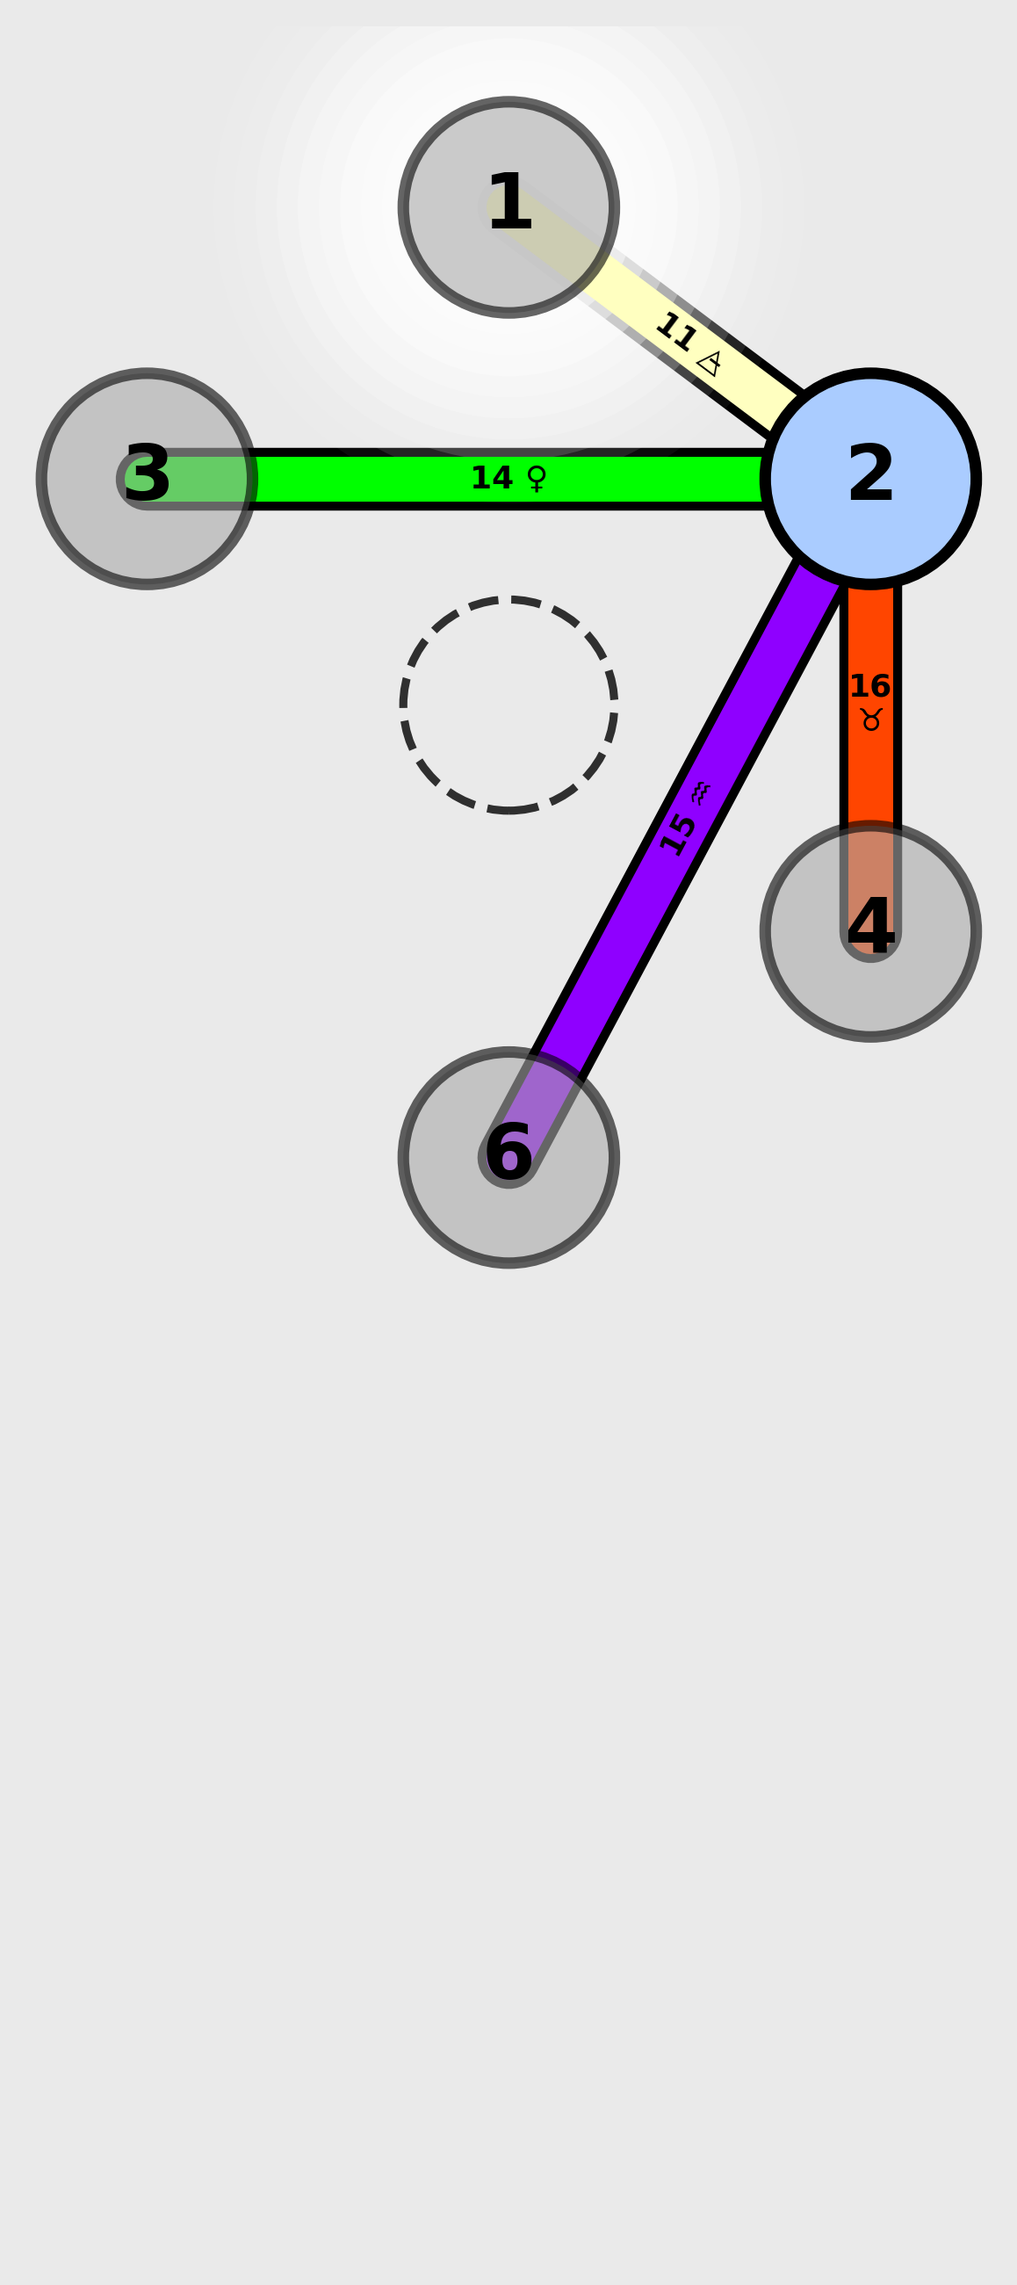
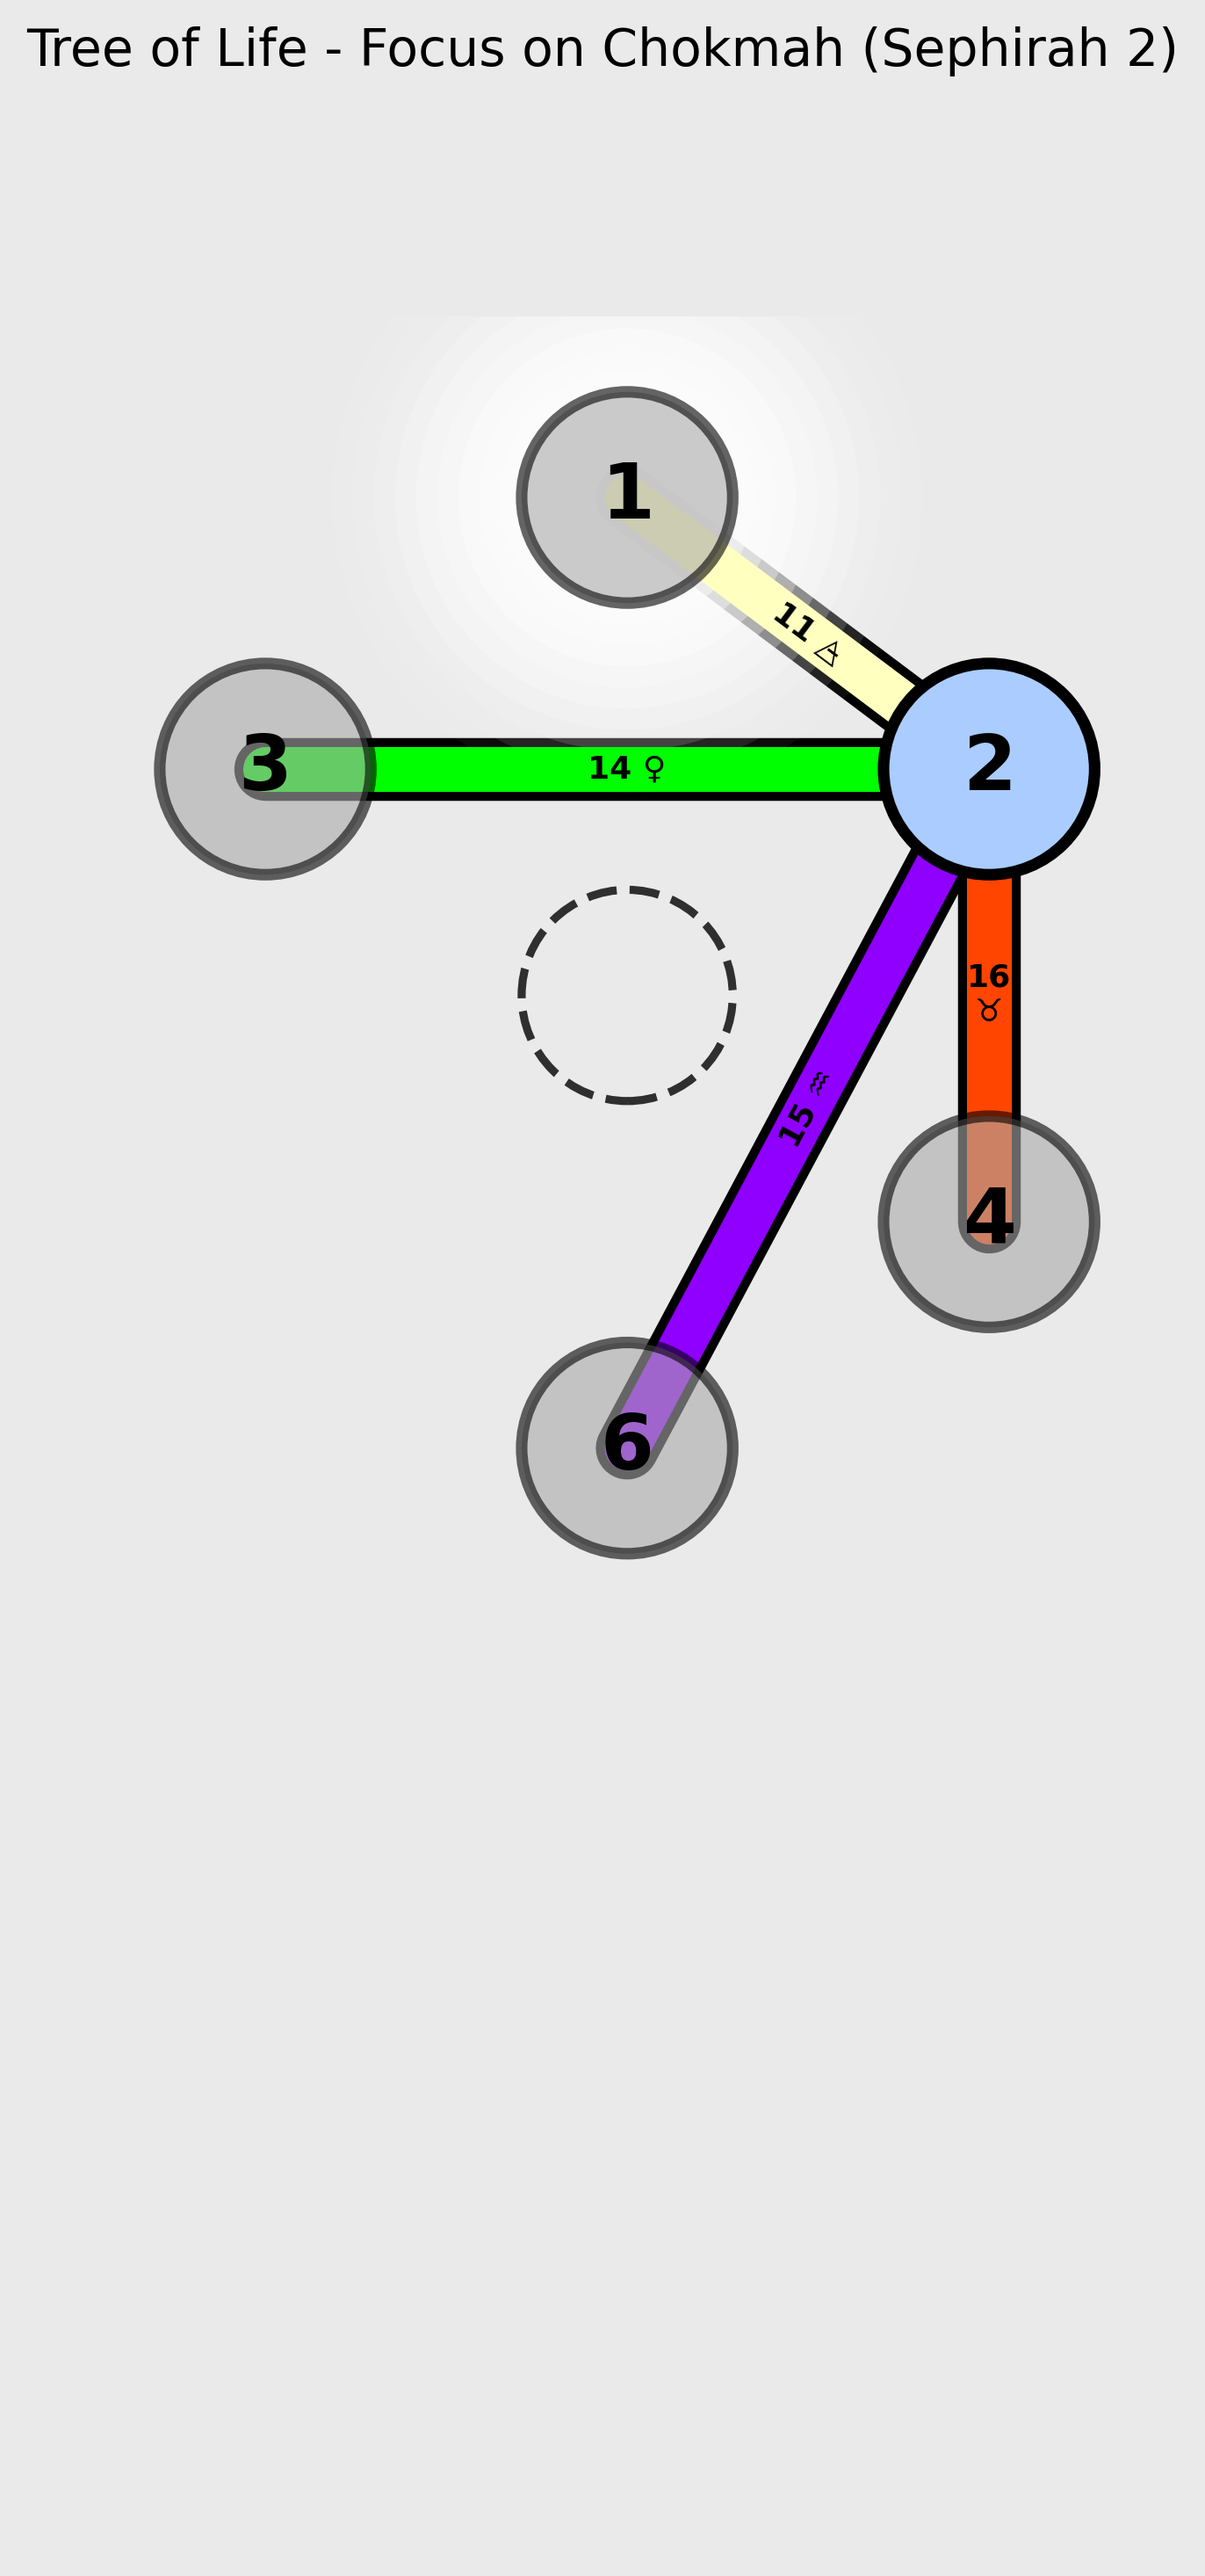
feat: enable titles for focused Sephirah views

diff --git a/demonstration.py b/demonstration.py
@@ -64,7 +64,8 @@ def main():
             focus_sephirah=num,
             display=False,
             save_to_file=os.path.join(
-                output_dir, f"focus_{num}_{name.lower()}.png")
+                output_dir, f"focus_{num}_{name.lower()}.png"),
+            show_title=True  # Enable titles for focused views
         )
 
     # Part 3: Generate a color scheme comparison grid
